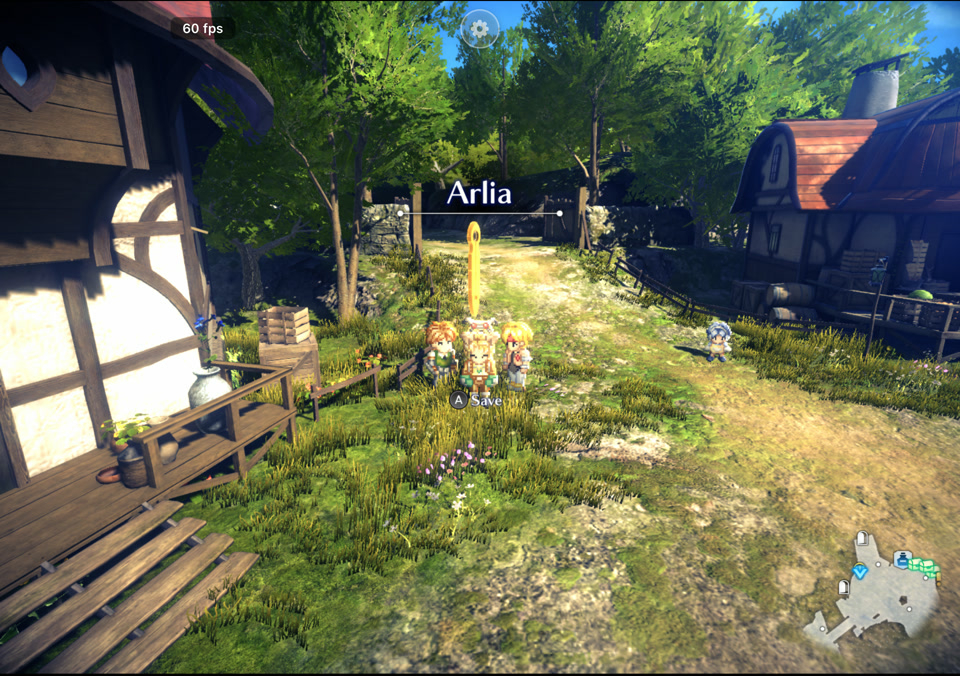
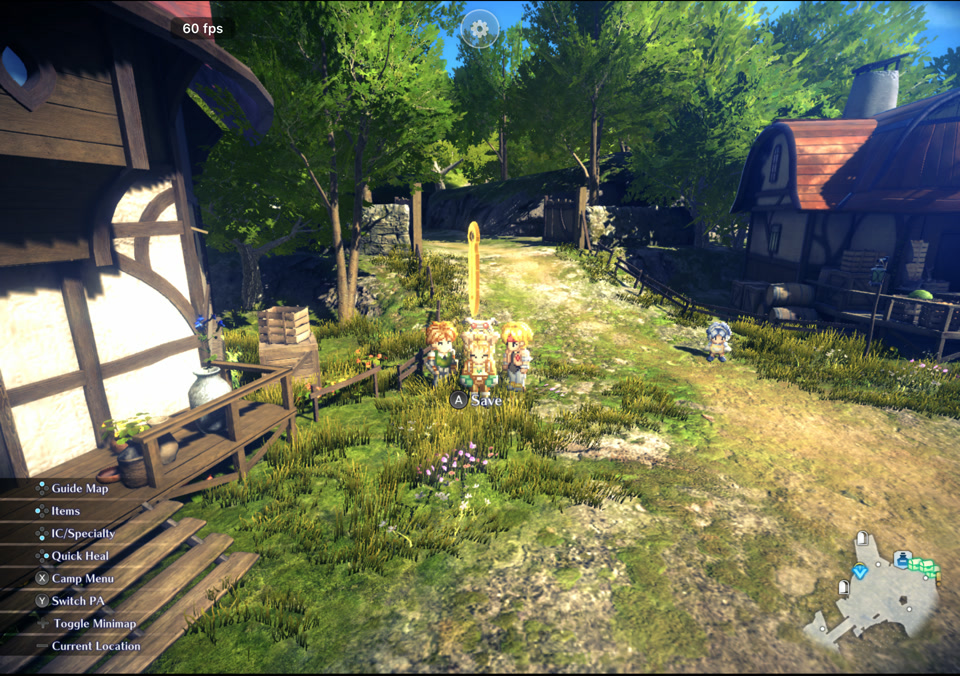
Show physical Duo Camp, System and return dialog

diff --git a/README.md b/README.md
@@ -14,7 +14,7 @@ The title scene at all three shapes. The Mac captures and the device capture wer
 
 ## Arlia field and HUD
 
-Same checkpoint and camera (the Duo frame shows the temporary area label), with more scenery above and below. The field hints and minimap stay near the bottom.
+Same checkpoint and camera, with more scenery above and below. The field hints and minimap stay near the bottom.
 
 | Original 16:9 | MacBook 16:10 | iPhone Duo 1.43:1 (physical) |
 | --- | --- | --- |
@@ -48,9 +48,9 @@ The underlying field is dimmed over the entire taller frame and the footer follo
 
 The blue gradient and blurred backdrop cover the new height; the menu header and footer follow the edges.
 
-| Original 16:9 | MacBook 16:10 |
-| --- | --- |
-| ![16:9 Camp menu](camp2-16x9.jpg) | ![16:10 Camp menu](camp2-16x10.jpg) |
+| Original 16:9 | MacBook 16:10 | iPhone Duo 1.43:1 (physical) |
+| --- | --- | --- |
+| ![16:9 Camp menu](camp2-16x9.jpg) | ![16:10 Camp menu](camp2-16x10.jpg) | ![Physical Duo Camp menu](camp2-duo-device.jpg) |
 
 ## Equipment
 
@@ -80,9 +80,9 @@ The backdrop and controls adapt. This also shows the known stock portrait cutoff
 
 The full-height gradient remains in place in a Camp submenu.
 
-| Original 16:9 | MacBook 16:10 |
-| --- | --- |
-| ![16:9 Camp → System](system-16x9.jpg) | ![16:10 Camp → System](system-16x10.jpg) |
+| Original 16:9 | MacBook 16:10 | iPhone Duo 1.43:1 (physical) |
+| --- | --- | --- |
+| ![16:9 Camp → System](system-16x9.jpg) | ![16:10 Camp → System](system-16x10.jpg) | ![Physical Duo Camp → System](system-duo-device.jpg) |
 
 ## Camp → Settings
 
@@ -96,6 +96,6 @@ The centered choices keep their size while the heading and footer follow the tal
 
 The dialog stays centered and the dark overlay reaches both edges.
 
-| Original 16:9 | MacBook 16:10 |
-| --- | --- |
-| ![16:9 Return to Title confirmation](back-title-dialog-16x9.jpg) | ![16:10 Return to Title confirmation](back-title-dialog-16x10.jpg) |
+| Original 16:9 | MacBook 16:10 | iPhone Duo 1.43:1 (physical) |
+| --- | --- | --- |
+| ![16:9 Return to Title confirmation](back-title-dialog-16x9.jpg) | ![16:10 Return to Title confirmation](back-title-dialog-16x10.jpg) | ![Physical Duo Return to Title confirmation](back-title-dialog-duo-device.jpg) |
